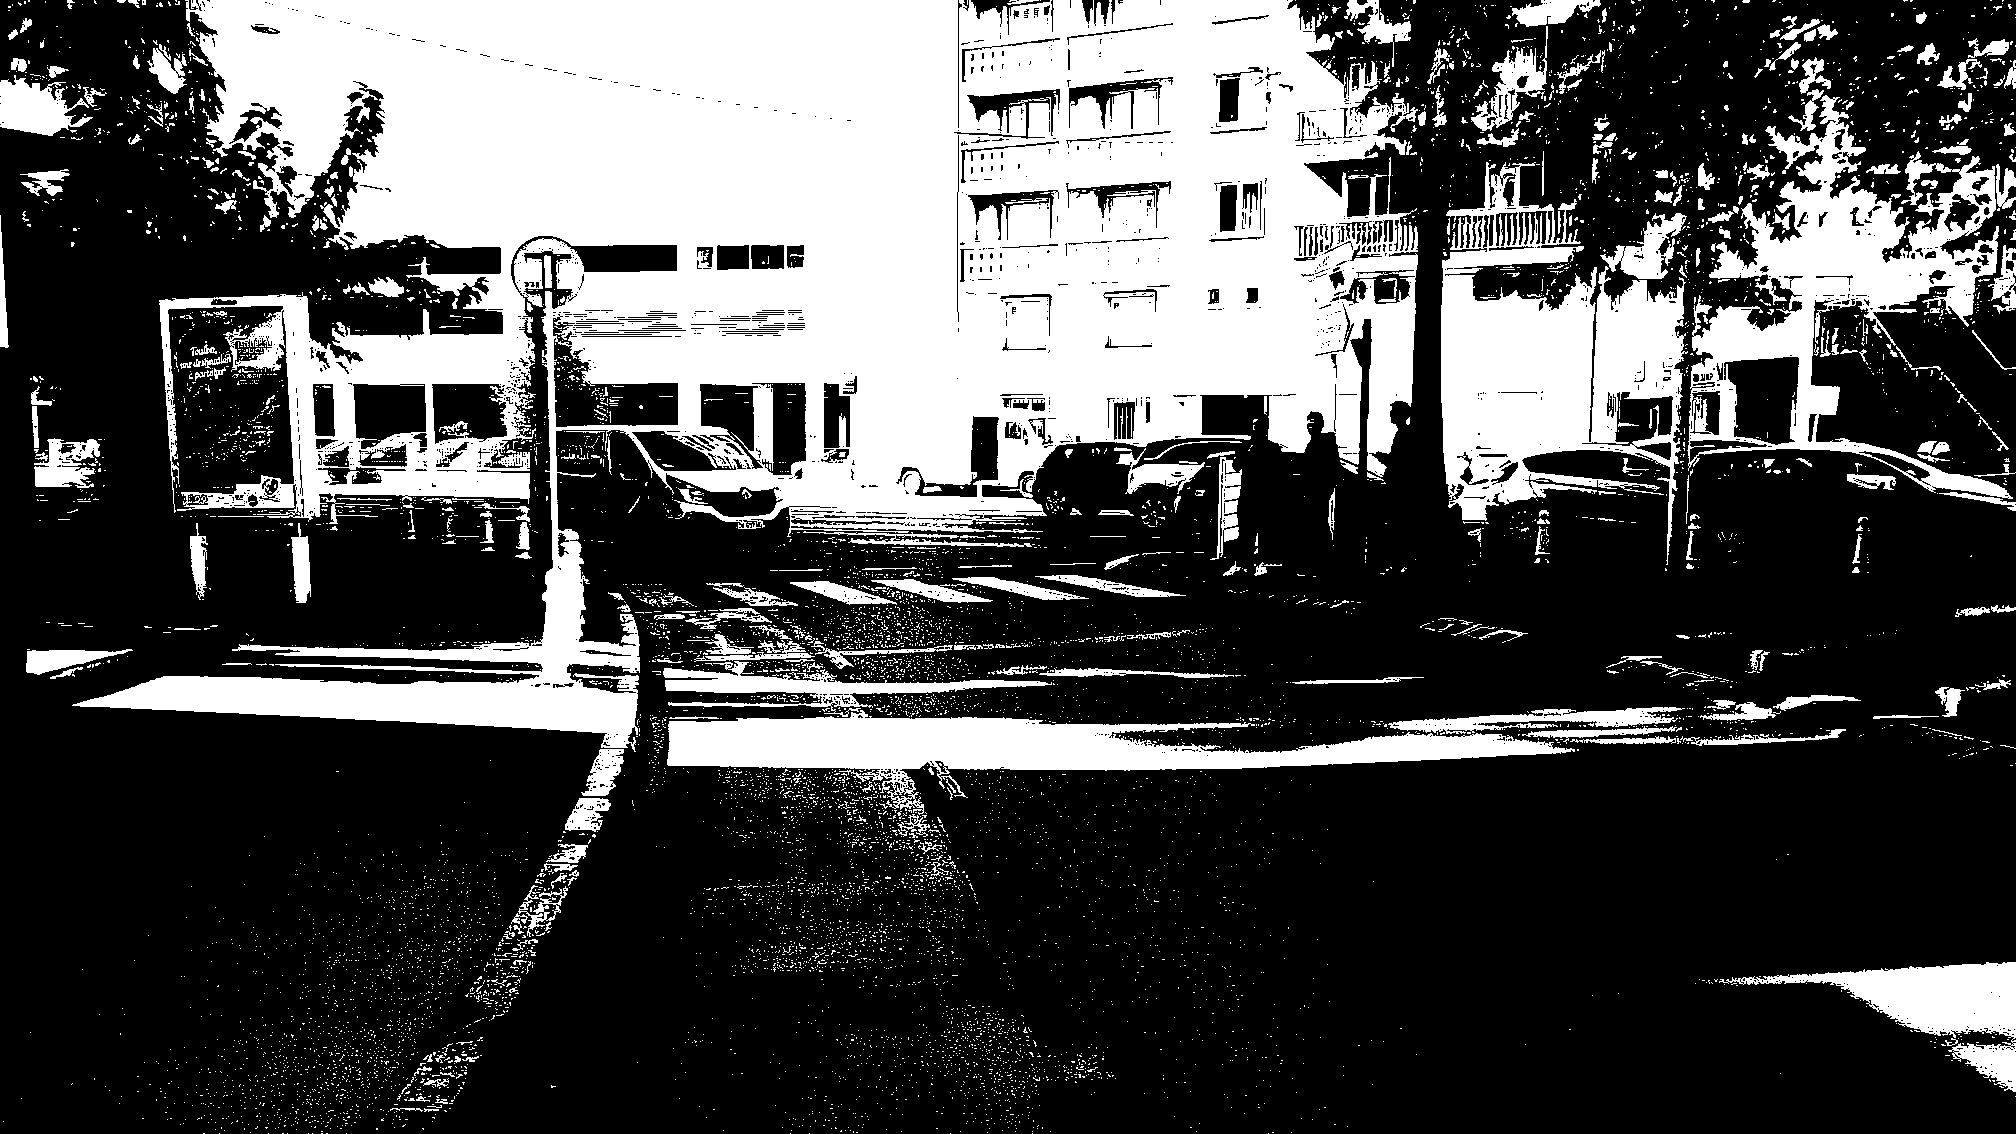
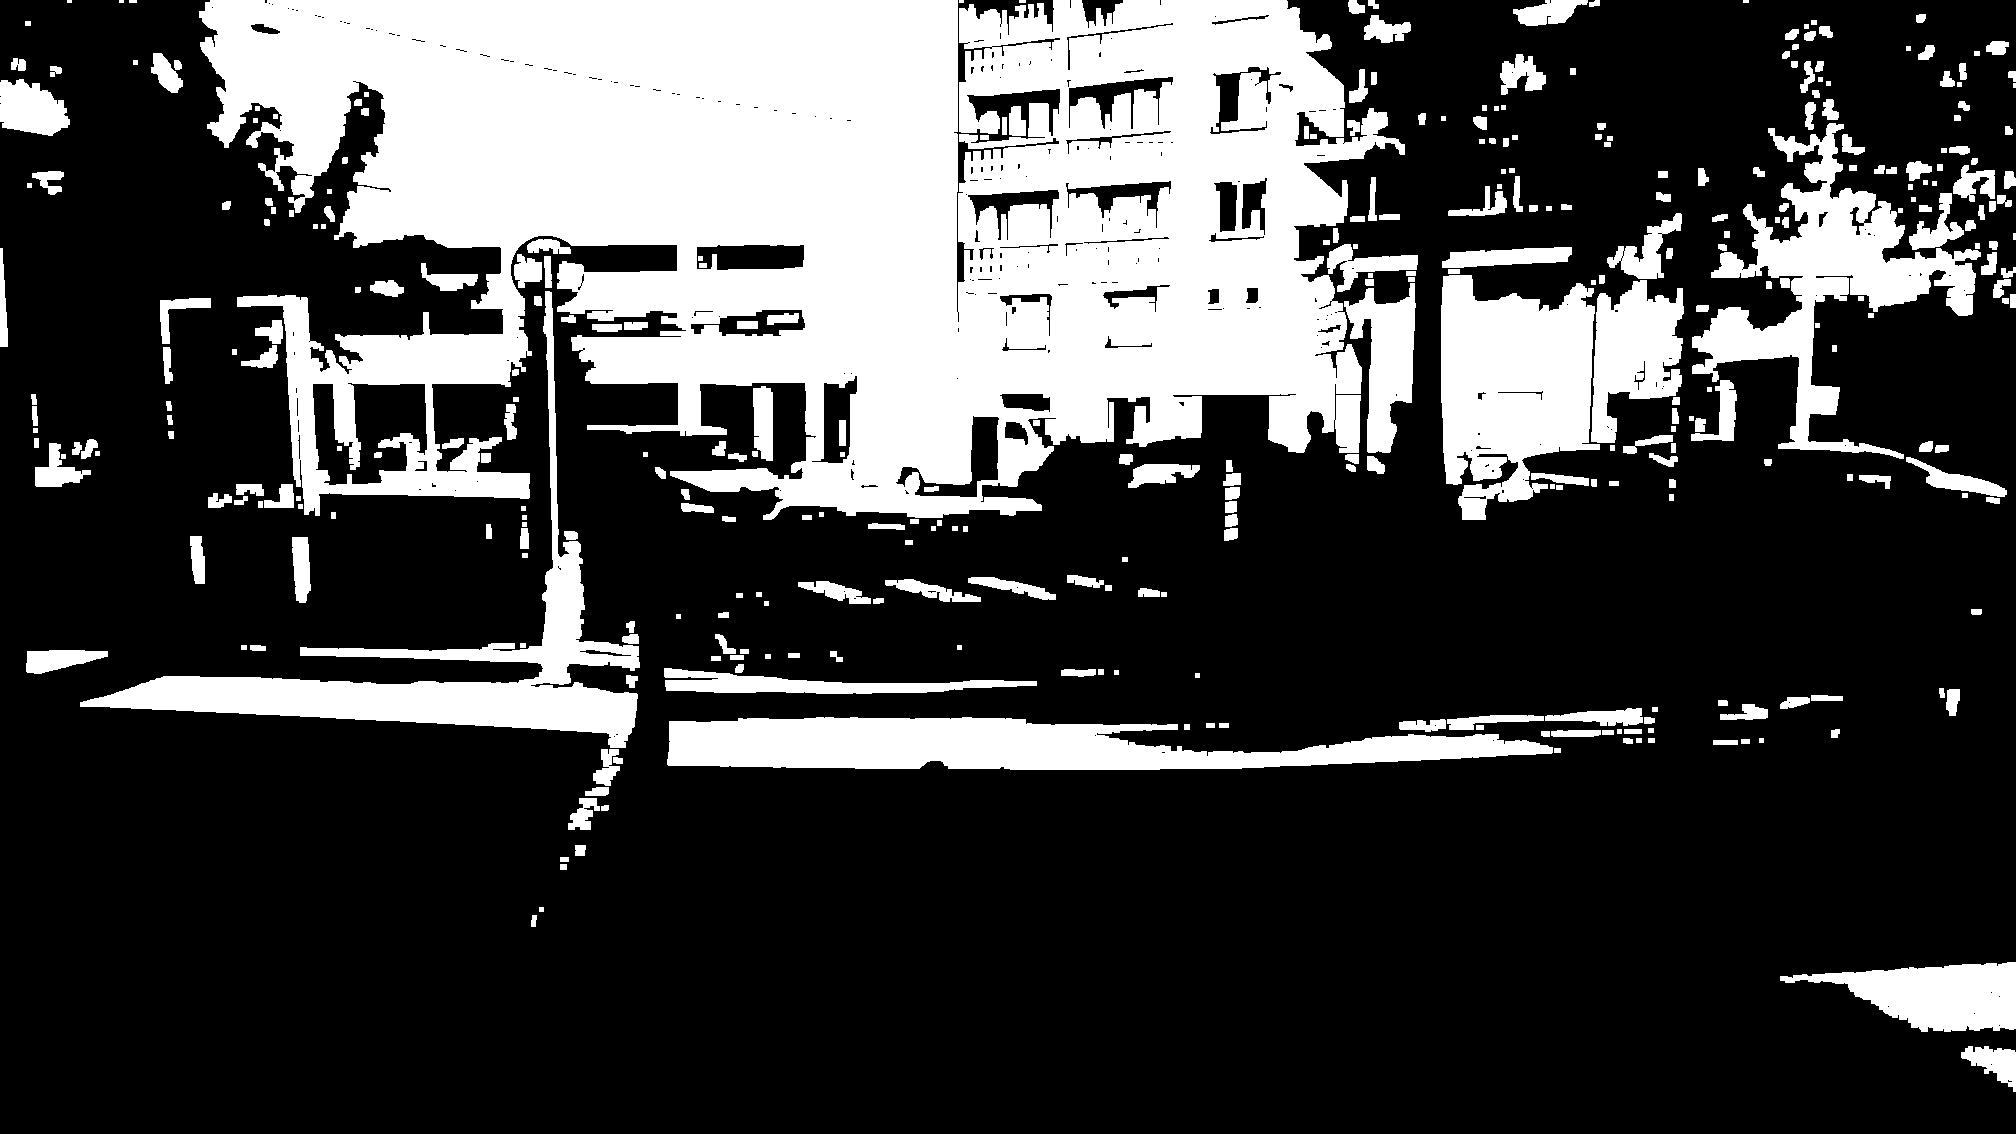
Fichers utiles pour la bdd

diff --git a/test.py b/test.py
@@ -14,7 +14,7 @@ opening = cv2.morphologyEx(thresh,cv2.MORPH_OPEN,kernel, iterations = 2)
 # sure background area
 sure_bg = cv2.dilate(opening,kernel,iterations=3)
 # Finding sure foreground area
-dist_transform = cv2.distanceTransform(opening,cv2.cv.CV_DIST_L2,5)
+dist_transform = cv2.distanceTransform(opening,cv2.DIST_L2,5)
 ret, sure_fg = cv2.threshold(dist_transform,0.7*dist_transform.max(),255,0)
 # Finding unknown region
 sure_fg = np.uint8(sure_fg)
@@ -28,6 +28,6 @@ markers = markers+1
 markers[unknown==255] = 0
 
 markers = cv2.watershed(img,markers)
-img[markers == -1] = [255,0,0]
+img[markers == -1] = [0,0,0]
 
-cv2.imwrite('./Images_rue/test.png', img)
+cv2.imwrite('./Images_rue/test.png', opening)
